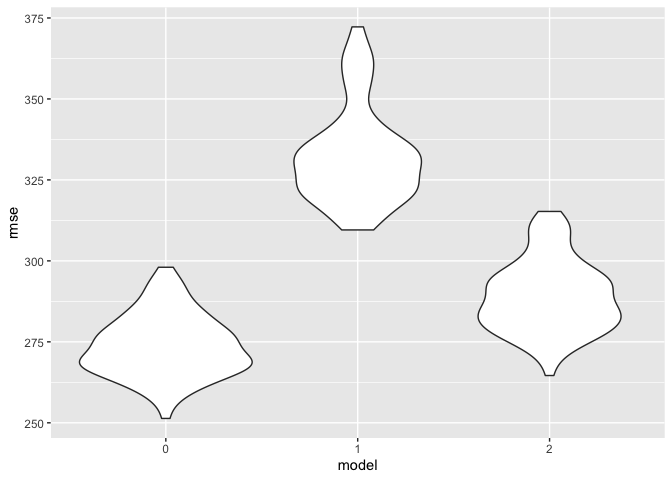
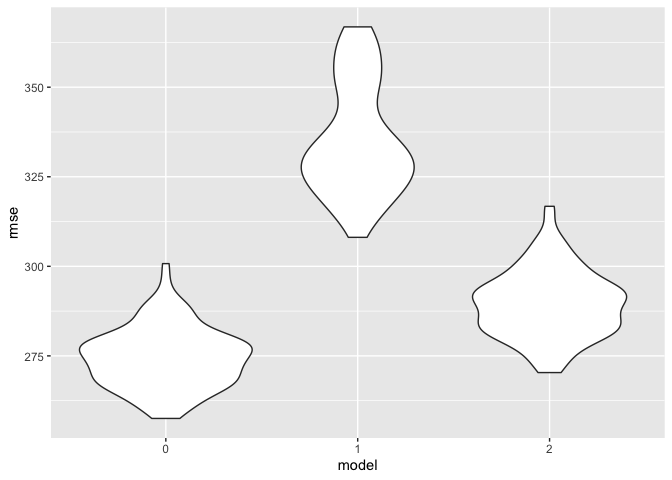
some comment

diff --git a/p8105_hw6_ss5929.md b/p8105_hw6_ss5929.md
@@ -108,6 +108,11 @@ add_predictions(fit_0) %>%
     ## may be misleading
 
 ![](p8105_hw6_ss5929_files/figure-gfm/unnamed-chunk-4-1.png)<!-- -->
+*comment*
+
+Build the model through global anova and choose factor which will have
+significant effect on the outcome according to p-value which are greater
+than 0.05.
 
 ## compare the model
 
@@ -123,16 +128,16 @@ cv_df %>% pull(train) %>% .[[1]] %>% as_tibble
     ## # A tibble: 3,473 x 20
     ##    babysex bhead blength   bwt delwt fincome frace gaweeks malform menarche
     ##    <fct>   <int>   <int> <int> <int>   <int> <fct>   <dbl> <fct>      <int>
-    ##  1 2          34      51  3629   177      35 1        39.9 0             13
-    ##  2 1          34      48  3062   156      65 2        25.9 0             14
-    ##  3 2          36      50  3345   148      85 1        39.9 0             12
-    ##  4 1          34      52  3062   157      55 1        40   0             14
-    ##  5 1          33      52  3374   129      55 1        40.7 0             12
-    ##  6 2          33      46  2523   126      96 2        40.3 0             14
-    ##  7 2          33      49  2778   140       5 1        37.4 0             12
-    ##  8 1          36      52  3515   146      85 1        40.3 0             11
-    ##  9 1          33      50  3459   169      75 2        40.7 0             12
-    ## 10 1          35      51  3459   146      55 1        39.4 0             12
+    ##  1 1          34      48  3062   156      65 2        25.9 0             14
+    ##  2 2          36      50  3345   148      85 1        39.9 0             12
+    ##  3 1          34      52  3062   157      55 1        40   0             14
+    ##  4 2          34      52  3374   156       5 1        41.6 0             13
+    ##  5 2          33      46  2523   126      96 2        40.3 0             14
+    ##  6 2          33      49  2778   140       5 1        37.4 0             12
+    ##  7 1          33      50  3459   169      75 2        40.7 0             12
+    ##  8 2          35      51  3317   130      55 1        43.4 0             13
+    ##  9 1          35      51  3459   146      55 1        39.4 0             12
+    ## 10 2          35      48  3175   158      75 1        39.7 0             13
     ## # … with 3,463 more rows, and 10 more variables: mheight <int>,
     ## #   momage <int>, mrace <fct>, parity <int>, pnumlbw <int>, pnumsga <int>,
     ## #   ppbmi <dbl>, ppwt <int>, smoken <dbl>, wtgain <int>
@@ -144,16 +149,16 @@ cv_df %>% pull(test) %>% .[[1]] %>% as_tibble
     ## # A tibble: 869 x 20
     ##    babysex bhead blength   bwt delwt fincome frace gaweeks malform menarche
     ##    <fct>   <int>   <int> <int> <int>   <int> <fct>   <dbl> <fct>      <int>
-    ##  1 2          34      52  3374   156       5 1        41.6 0             13
-    ##  2 2          35      51  3317   130      55 1        43.4 0             13
-    ##  3 1          35      51  3544   129      65 1        39.6 0             12
-    ##  4 1          35      56  3232   147      55 1        42.1 0             13
-    ##  5 1          34      49  3175   148      96 2        39.7 0             10
-    ##  6 2          35      52  3289   135      55 1        40.6 0             13
-    ##  7 1          36      54  3402   161      95 1        40.1 0             11
-    ##  8 2          34      54  3345   130      95 1        42.1 0             10
-    ##  9 2          34      51  3232   155      55 1        41.6 0             15
-    ## 10 2          34      49  3317   142      35 1        40.4 0             12
+    ##  1 2          34      51  3629   177      35 1        39.9 0             13
+    ##  2 1          33      52  3374   129      55 1        40.7 0             12
+    ##  3 1          36      52  3515   146      85 1        40.3 0             11
+    ##  4 2          33      49  2551   120      75 2        38.1 0             11
+    ##  5 2          35      50  3175   140      85 2        40.6 0             14
+    ##  6 1          36      52  3629   152      45 1        39.6 0             11
+    ##  7 1          38      53  3799   167      75 1        39.9 0             12
+    ##  8 1          35      55  3856   171      85 1        41.1 0             13
+    ##  9 2          35      53  3600   141      35 1        42.3 0             14
+    ## 10 2          34      51  3232   155      55 1        41.6 0             15
     ## # … with 859 more rows, and 10 more variables: mheight <int>,
     ## #   momage <int>, mrace <fct>, parity <int>, pnumlbw <int>, pnumsga <int>,
     ## #   ppbmi <dbl>, ppwt <int>, smoken <dbl>, wtgain <int>
@@ -491,6 +496,13 @@ pivot_longer(
 ```
 
 ![](p8105_hw6_ss5929_files/figure-gfm/unnamed-chunk-5-1.png)<!-- -->
+
+*comment*
+
+According to the plot of rmse, we can see that the model\_0 will have
+least rmse which will be prefered. Model\_1 has the highest rmse which
+will increase bias. However, we can also see that modeL\_0 has a little
+bit greater variance which can be due to much predictors.
 
 # Problem 2
 
@@ -15570,14 +15582,14 @@ quantile(result_plot$r2,probs = c(0.025,0.975))
 ```
 
     ##      2.5%     97.5% 
-    ## 0.8935376 0.9272413
+    ## 0.8935060 0.9272558
 
 ``` r
 quantile(result_plot$l,probs = c(0.025,0.975))
 ```
 
     ##     2.5%    97.5% 
-    ## 1.965628 2.058997
+    ## 1.965231 2.060444
 
 ``` r
 result_plot %>% 
